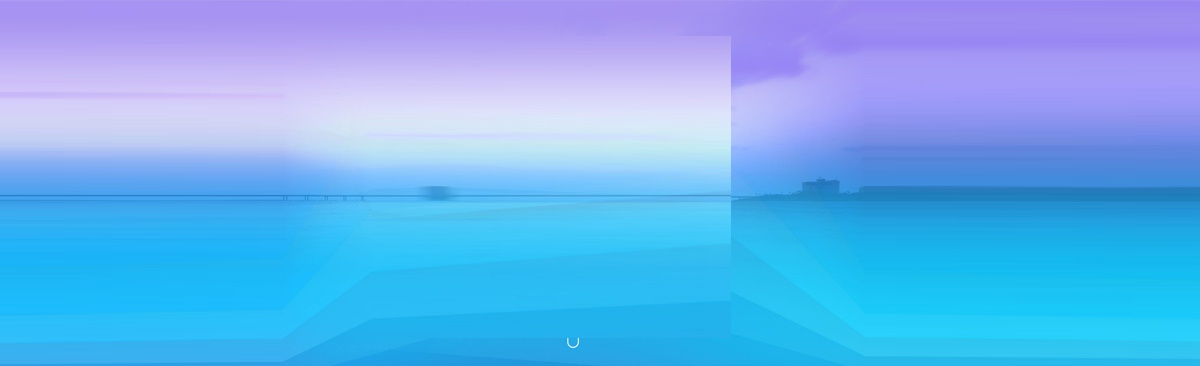
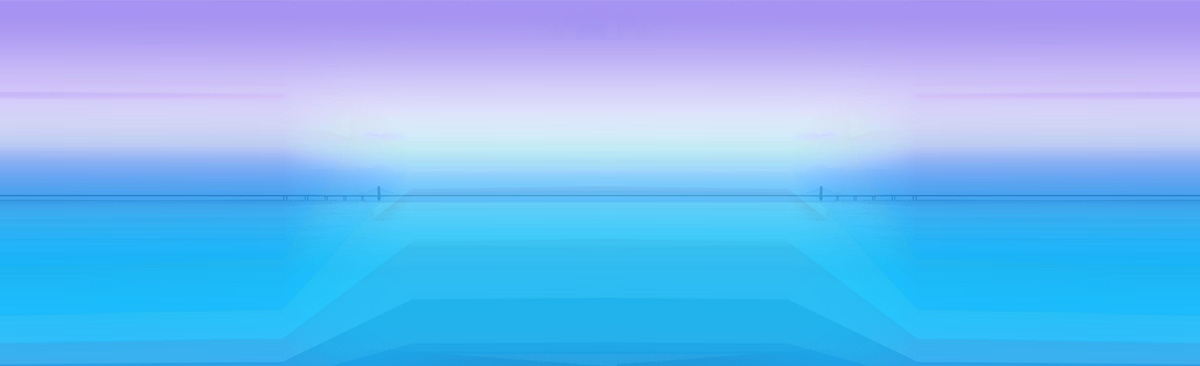
hero background image

diff --git a/css/custom.css b/css/custom.css
@@ -5,6 +5,9 @@
 /* hero */
 .hero.container {
     padding-bottom: 20px;
+    background-image: url(../img/background.jpg);
+    background-size: cover;
+    background-position: center bottom;
 }
 .hero > .short {
     text-align: center;
@@ -37,7 +40,7 @@
     margin-bottom: var(--gap);
 }
 .hero .mouse {
-    margin-bottom: var(--gap);
+
 }
 /* main */
 main h2 {
